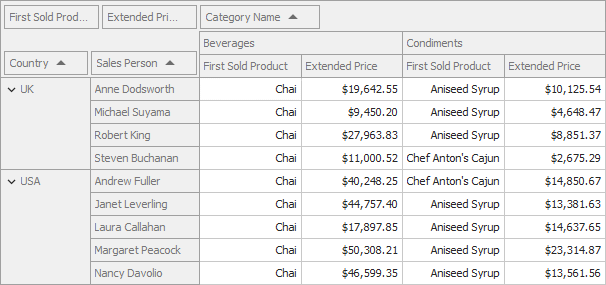
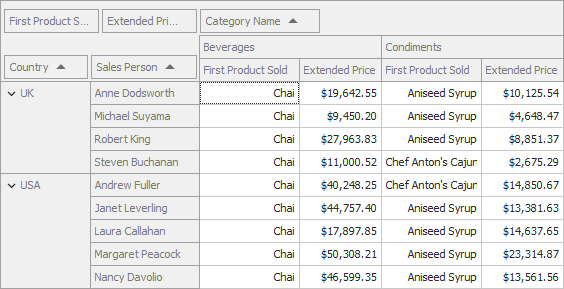
update image

Changed region(s): [[0.0, 0.0, 1.0, 0.9825], [0.8741, 0.9263, 0.9947, 0.9825], [0.3316, 0.9825, 0.3617, 1.0]]

diff --git a/CS/Win_Pivot_CustomAggregates/Form1.cs b/CS/Win_Pivot_CustomAggregates/Form1.cs
@@ -15,8 +15,8 @@ namespace WinPivot_CustomFunctions {
             PivotGridField pivotGridField1 = new PivotGridField() {
                 Area = PivotArea.DataArea,
                 AreaIndex = 0,
-                Caption = "First Sold Product",
-                FieldName = "FirstSoldProduct"
+                Caption = "First Product Sold",
+                FieldName = "FirstProductSold"
             };
             pivotGridControl1.Fields.Add(pivotGridField1);
             pivotGridField1.DataBinding = new ExpressionDataBinding() { Expression = "FirstValue([ProductName])" };
